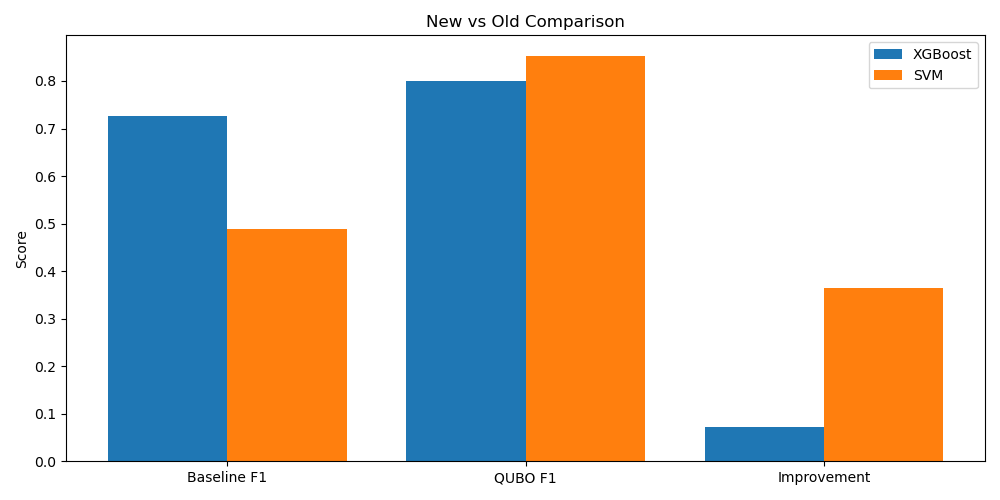
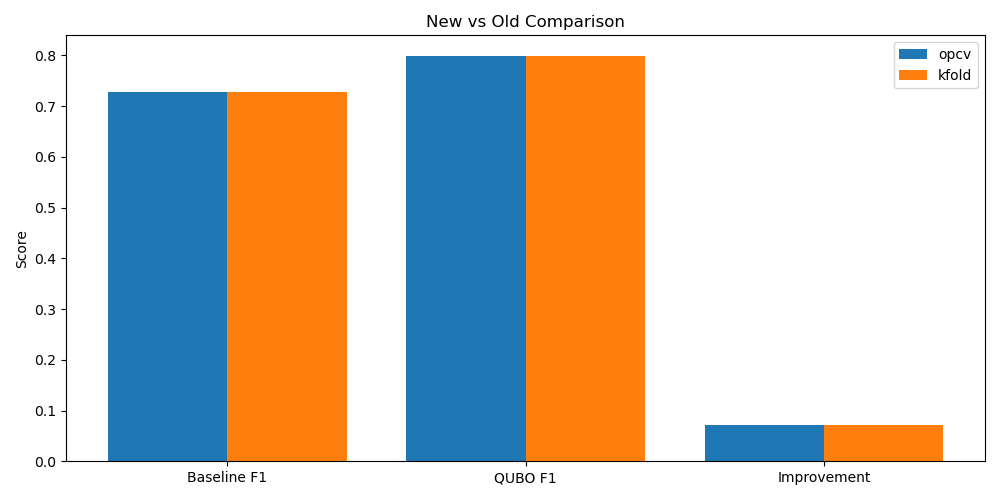
Kfold

diff --git a/gpu.py b/gpu.py
@@ -1,16 +1,18 @@
 import numpy as np
 import pandas as pd
 from sklearn.metrics import f1_score
-from sklearn.model_selection import KFold,StratifiedKFold
+from sklearn.model_selection import KFold, StratifiedKFold
 from pipeline import processAllFiles, solve_qubo_seizure
 from parser import parse_seizure_file
 from xgboost import XGBClassifier
 from cuml.svm import SVC
 from cuml.preprocessing import StandardScaler
-from pathlib import Path 
+from pathlib import Path
 import os
 import datetime
 import cupy as cp
+import time
+
 
 def build_validation_score_cache(trainingFiles, allDataFeatures, allDataLabels):
     cache = {}
@@ -37,6 +39,7 @@ def build_validation_score_cache(trainingFiles, allDataFeatures, allDataLabels):
 
     return cache
 
+
 def build_validation_score_cache_kfold(trainingFiles, allDataFeatures, allDataLabels, n_splits=5):
     """
     用 K-Fold 取代 Leave-One-File-Out，大幅減少訓練次數。
@@ -55,7 +58,8 @@ def build_validation_score_cache_kfold(trainingFiles, allDataFeatures, allDataLa
         kf = StratifiedKFold(n_splits=n_splits, shuffle=True, random_state=42)
         splitIter = kf.split(trainArray, fileHasSeizure)
     else:
-        kf = KFold(n_splits=min(n_splits, len(trainingFiles)), shuffle=True, random_state=42)
+        kf = KFold(n_splits=min(n_splits, len(trainingFiles)),
+                   shuffle=True, random_state=42)
         splitIter = kf.split(trainArray)
 
     for foldIdx, (trainIdx, valIdx) in enumerate(splitIter):
@@ -65,8 +69,10 @@ def build_validation_score_cache_kfold(trainingFiles, allDataFeatures, allDataLa
         print(f"  [Fold {foldIdx + 1}/{kf.n_splits}] "
               f"train={len(innerTrainFiles)} files, val={len(valFiles)} files")
 
-        xTrain = cp.vstack([cp.asarray(allDataFeatures[f]) for f in innerTrainFiles])
-        yTrain = cp.concatenate([cp.asarray(allDataLabels[f]).astype(cp.int32) for f in innerTrainFiles])
+        xTrain = cp.vstack([cp.asarray(allDataFeatures[f])
+                           for f in innerTrainFiles])
+        yTrain = cp.concatenate(
+            [cp.asarray(allDataLabels[f]).astype(cp.int32) for f in innerTrainFiles])
 
         scaler = StandardScaler()
         xTrainScaled = scaler.fit_transform(xTrain)
@@ -99,10 +105,12 @@ def build_validation_score_cache_kfold(trainingFiles, allDataFeatures, allDataLa
     print(f"  [Cache] 完成！共 {len(cache)} 個檔案的 validation scores")
     return cache
 
+
 def train_and_get_scores(trainFiles, valFile, allDataFeatures, allDataLabels):
     # 組訓練集
     xTrain = cp.vstack([cp.asarray(allDataFeatures[f]) for f in trainFiles])
-    yTrain = cp.concatenate([cp.asarray(allDataLabels[f]).astype(cp.int32) for f in trainFiles])
+    yTrain = cp.concatenate(
+        [cp.asarray(allDataLabels[f]).astype(cp.int32) for f in trainFiles])
 
     # 組驗證集
     xVal = cp.asarray(allDataFeatures[valFile])
@@ -119,18 +127,20 @@ def train_and_get_scores(trainFiles, valFile, allDataFeatures, allDataLabels):
     # scores = clf.predict_proba(xValScaled)[:, 1]
 
     # XGBoost
-    bst = XGBClassifier(n_estimators=500, max_depth=6, learning_rate=0.1, objective='binary:logistic',device='cuda')
+    bst = XGBClassifier(n_estimators=500, max_depth=6,
+                        learning_rate=0.1, objective='binary:logistic', device='cuda')
     bst.fit(xTrainScaled.get(), yTrain.get())
     scores = bst.predict_proba(xValScaled)[:, 1]
 
     # 預測 validation 機率
-    
+
     if hasattr(scores, 'get'):
         scores = scores.get()
     else:
         scores = np.asarray(scores)
 
     return scores, yVal
+
 
 def tune_qubo_params_from_cache(scoreCache, lambdaList, thresholdList, alpha=0.2):
     bestScore = -1e9
@@ -146,7 +156,8 @@ def tune_qubo_params_from_cache(scoreCache, lambdaList, thresholdList, alpha=0.2
                 scores = data["scores"]
                 yVal = data["yVal"]
 
-                yQuboVal = solve_qubo_seizure(scores, lmbda=lmbda, threshold=threshold)
+                yQuboVal = solve_qubo_seizure(
+                    scores, lmbda=lmbda, threshold=threshold)
                 yQuboVal = np.asarray(yQuboVal).astype(int)
 
                 if np.sum(yVal) > 0:
@@ -156,8 +167,10 @@ def tune_qubo_params_from_cache(scoreCache, lambdaList, thresholdList, alpha=0.2
                     fpRate = np.mean(yQuboVal)
                     nonseizureFpList.append(fpRate)
 
-            meanSeizureF1 = np.mean(seizureF1List) if len(seizureF1List) > 0 else 0.0
-            meanNonseizureFp = np.mean(nonseizureFpList) if len(nonseizureFpList) > 0 else 0.0
+            meanSeizureF1 = np.mean(seizureF1List) if len(
+                seizureF1List) > 0 else 0.0
+            meanNonseizureFp = np.mean(nonseizureFpList) if len(
+                nonseizureFpList) > 0 else 0.0
 
             combinedScore = meanSeizureF1 - alpha * meanNonseizureFp
 
@@ -174,79 +187,105 @@ def tune_qubo_params_from_cache(scoreCache, lambdaList, thresholdList, alpha=0.2
 
     return bestLambda, bestThreshold, bestScore
 
+
 # --- 設定 ---
 summaryPath = "DESTINATION/chb01/chb01-summary.txt"
 dataDir = "DESTINATION/chb01/"
 
 # 獲取所有 EDF 檔案
-seizureFiles = sorted([file.name for file in Path(dataDir).iterdir() if file.suffix == '.edf'])
+seizureFiles = sorted([file.name for file in Path(
+    dataDir).iterdir() if file.suffix == '.edf'])
 
 seizures = parse_seizure_file(summaryPath)
 
 print("正在預處理所有檔案...")
-allDataFeatures, allDataLabels = processAllFiles([os.path.join(dataDir, f) for f in seizureFiles], seizures)
+preprocessStart = time.perf_counter()
+allDataFeatures, allDataLabels = processAllFiles(
+    [os.path.join(dataDir, f) for f in seizureFiles], seizures)
+preprocessElapsed = time.perf_counter() - preprocessStart
+print(f"前處理完成，耗時: {preprocessElapsed:.2f} 秒")
 
 lambdaList = [0.5, 1.0, 1.5, 2.0, 3.0]
 thresholdList = [0.3, 0.4, 0.45, 0.5, 0.6]
 
 results = []
+globalStart = time.perf_counter()
 
 for testFile in seizureFiles:
+    fileStart = time.perf_counter()
     print(f"\n>>> 正在測試檔案: {testFile} (使用 GPU 加速) <<<")
     trainingFiles = [f for f in seizureFiles if f != testFile]
 
     # Step 1: 建立 inner validation score cache
     print("正在建立 validation score cache...")
-    scoreCache = build_validation_score_cache_kfold(
+    cacheStart = time.perf_counter()
+    # scoreCache = build_validation_score_cache_kfold(
+    #     trainingFiles,
+    #     allDataFeatures,
+    #     allDataLabels,
+    #     n_splits=5
+    # )
+
+    scoreCache = build_validation_score_cache(
         trainingFiles,
         allDataFeatures,
-        allDataLabels,
-        n_splits=5
+        allDataLabels
     )
-
+    cacheElapsed = time.perf_counter() - cacheStart
+    print(f"validation score cache 建立完成，耗時: {cacheElapsed:.2f} 秒")
     # --- 先在 training files 上做 inner validation 調參 ---
-    #從 cache 做 QUBO 參數搜尋
+    # 從 cache 做 QUBO 參數搜尋
     print("正在調整 QUBO 參數...")
+    tuneStart = time.perf_counter()
     bestLambda, bestThreshold, bestValScore = tune_qubo_params_from_cache(
         scoreCache,
         lambdaList,
         thresholdList,
         alpha=0.2
     )
+    tuneElapsed = time.perf_counter() - tuneStart
     print(
         f"最佳 QUBO 參數: lambda={bestLambda}, threshold={bestThreshold}, "
         f"validation score={bestValScore:.4f}"
     )
+    print(f"QUBO 參數調整完成，耗時: {tuneElapsed:.2f} 秒")
 
     # --- 用全部 training files 重訓最終模型 ---
-    trainFeaturesList = [cp.asarray(allDataFeatures[f]) for f in seizureFiles if f != testFile]
-    trainLabelsList = [cp.asarray(allDataLabels[f]).astype(cp.int32) for f in seizureFiles if f != testFile]
+    trainPrepStart = time.perf_counter()
+    trainFeaturesList = [cp.asarray(allDataFeatures[f])
+                         for f in seizureFiles if f != testFile]
+    trainLabelsList = [cp.asarray(allDataLabels[f]).astype(
+        cp.int32) for f in seizureFiles if f != testFile]
     xTrainAll = cp.vstack(trainFeaturesList)
     yTrainAll = cp.concatenate(trainLabelsList)
+    trainPrepElapsed = time.perf_counter() - trainPrepStart
     print(f"訓練資料處理完成。特徵維度: {xTrainAll.shape}")
+    print(f"訓練資料準備耗時: {trainPrepElapsed:.2f} 秒")
 
     # 2. 訓練模型 (使用 GPU)
+    modelTrainStart = time.perf_counter()
     scaler = StandardScaler()
     xTrainScaled = scaler.fit_transform(xTrainAll)
 
-    
-    
+    # clf = SVC(probability=True, kernel='rbf', class_weight='balanced', verbose=False)
+    bst = XGBClassifier(n_estimators=500, max_depth=6,
+                        learning_rate=0.1, objective='binary:logistic', device='cuda')
 
-    #clf = SVC(probability=True, kernel='rbf', class_weight='balanced', verbose=False)
-    bst = XGBClassifier(n_estimators=500, max_depth=6, learning_rate=0.1, objective='binary:logistic',device='cuda')
-    
     print(f"正在 GPU 上訓練 SVM (樣本數: {xTrainAll.shape[0]})...")
-    #clf.fit(xTrainScaled, yTrainAll)
+    # clf.fit(xTrainScaled, yTrainAll)
     bst.fit(xTrainScaled.get(), yTrainAll.get())
+    modelTrainElapsed = time.perf_counter() - modelTrainStart
     print("GPU 訓練完成！")
+    print(f"模型訓練耗時: {modelTrainElapsed:.2f} 秒")
 
     # 3. 準備測試集
+    inferStart = time.perf_counter()
     xTestFeat = cp.asarray(allDataFeatures[testFile])
     yTest = np.asarray(allDataLabels[testFile]).astype(int)
 
     xTestScaled = scaler.transform(xTestFeat)
     # 4. 取得分數與 QUBO 優化
-    #scores = clf.predict_proba(xTestScaled)[:, 1]
+    # scores = clf.predict_proba(xTestScaled)[:, 1]
     scores = bst.predict_proba(xTestScaled)[:, 1]
 
     # 轉回 numpy 格式供 QUBO (CPU) 使用
@@ -254,15 +293,18 @@ for testFile in seizureFiles:
         scores = scores.get()
     else:
         scores = np.asarray(scores)
-    
+
     # --- Baseline 與最佳 QUBO ---
     yBaseline = (scores > 0.5).astype(int)
-    yQubo = solve_qubo_seizure(scores, lmbda=bestLambda, threshold=bestThreshold)
+    yQubo = solve_qubo_seizure(
+        scores, lmbda=bestLambda, threshold=bestThreshold)
     yQubo = np.asarray(yQubo).astype(int)
-    
+    inferElapsed = time.perf_counter() - inferStart
+
     # 5. 紀錄結果
     bF1 = f1_score(yTest, yBaseline, zero_division=0)
     qF1 = f1_score(yTest, yQubo, zero_division=0)
+    fileElapsed = time.perf_counter() - fileStart
     results.append({
         'File': testFile,
         'Num_Test_Samples': len(yTest),
@@ -274,16 +316,38 @@ for testFile in seizureFiles:
         'Val_Score': bestValScore,
         'Baseline_F1': bF1,
         'QUBO_F1': qF1,
-        'Improvement': qF1 - bF1
+        'Improvement': qF1 - bF1,
+        'Time_Cache_s': cacheElapsed,
+        'Time_QUBO_Tune_s': tuneElapsed,
+        'Time_TrainPrep_s': trainPrepElapsed,
+        'Time_ModelTrain_s': modelTrainElapsed,
+        'Time_Infer_QUBO_s': inferElapsed,
+        'Time_TotalFile_s': fileElapsed
     })
-    print(f"檔案 {testFile} 完成！提升幅度: {qF1 - bF1:.4f}")
+    print(
+        f"檔案 {testFile} 完成！提升幅度: {qF1 - bF1:.4f}, "
+        f"總耗時: {fileElapsed:.2f} 秒"
+    )
 
 # --- 6. 輸出總結表 ---
 dfResults = pd.DataFrame(results)
+globalElapsed = time.perf_counter() - globalStart
 outputDir = "experimentLogs"
 os.makedirs(outputDir, exist_ok=True)
-dfResults.to_pickle(f"{outputDir}/{datetime.datetime.now().strftime('%Y%m%d_%H%M%S')}_gpu_results.pkl")
+dfResults.to_pickle(
+    f"{outputDir}/{datetime.datetime.now().strftime('%Y%m%d_%H%M%S')}_gpu_results.pkl")
 print("\n" + "="*40)
 print("GPU 實驗總結報告")
 print(dfResults)
 print(f"平均提升幅度: {dfResults['Improvement'].mean():.4f}")
+print("\n--- 時間統計 ---")
+print(f"前處理耗時: {preprocessElapsed:.2f} 秒")
+print(f"主迴圈總耗時: {globalElapsed:.2f} 秒")
+print(f"整體總耗時: {preprocessElapsed + globalElapsed:.2f} 秒")
+if len(dfResults) > 0:
+    print(f"平均 cache 耗時: {dfResults['Time_Cache_s'].mean():.2f} 秒")
+    print(f"平均 QUBO 調參耗時: {dfResults['Time_QUBO_Tune_s'].mean():.2f} 秒")
+    print(f"平均訓練資料準備耗時: {dfResults['Time_TrainPrep_s'].mean():.2f} 秒")
+    print(f"平均模型訓練耗時: {dfResults['Time_ModelTrain_s'].mean():.2f} 秒")
+    print(f"平均測試推論與 QUBO 耗時: {dfResults['Time_Infer_QUBO_s'].mean():.2f} 秒")
+    print(f"平均每檔案總耗時: {dfResults['Time_TotalFile_s'].mean():.2f} 秒")

diff --git a/resultRead.py b/resultRead.py
@@ -65,8 +65,10 @@ def ValScoreVsImprovement(df):
 
 
 if __name__ == "__main__":
-    dfold = pd.read_pickle("experimentLogs/20260323_032622_svm_results.pkl")
-    dfnew = pd.read_pickle("experimentLogs/20260420_023056_gpu_results.pkl")
+    dfold = pd.read_pickle(
+        "experimentLogs/20260421_073735_gpu_results_kfold.pkl")
+    dfnew = pd.read_pickle(
+        "experimentLogs/20260422_052115_gpu_results_opcv.pkl")
 
     df_seizureNew = dfnew[dfnew["Num_Positive"] > 0]
     df_seizureOld = dfold[dfold["Num_Positive"] > 0]
@@ -88,8 +90,8 @@ if __name__ == "__main__":
     ), df_seizureOld["QUBO_F1"].mean(), df_seizureOld["Improvement"].mean()]
 
     x = range(len(categories))
-    plt.bar([i - 0.2 for i in x], new_values, width=0.4, label="XGBoost")
-    plt.bar([i + 0.2 for i in x], old_values, width=0.4, label="SVM")
+    plt.bar([i - 0.2 for i in x], new_values, width=0.4, label="opcv")
+    plt.bar([i + 0.2 for i in x], old_values, width=0.4, label="kfold")
     plt.xticks(x, categories)
     plt.ylabel("Score")
     plt.title("New vs Old Comparison")
